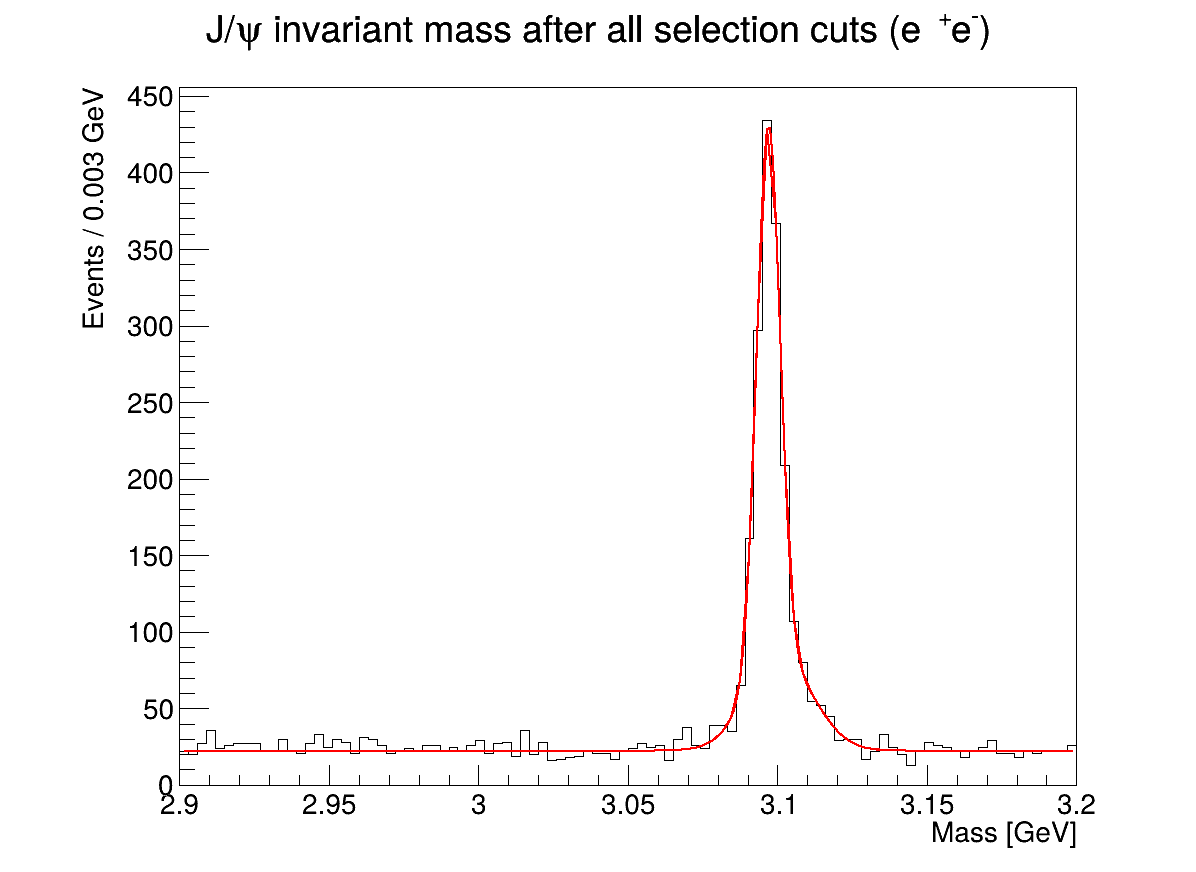
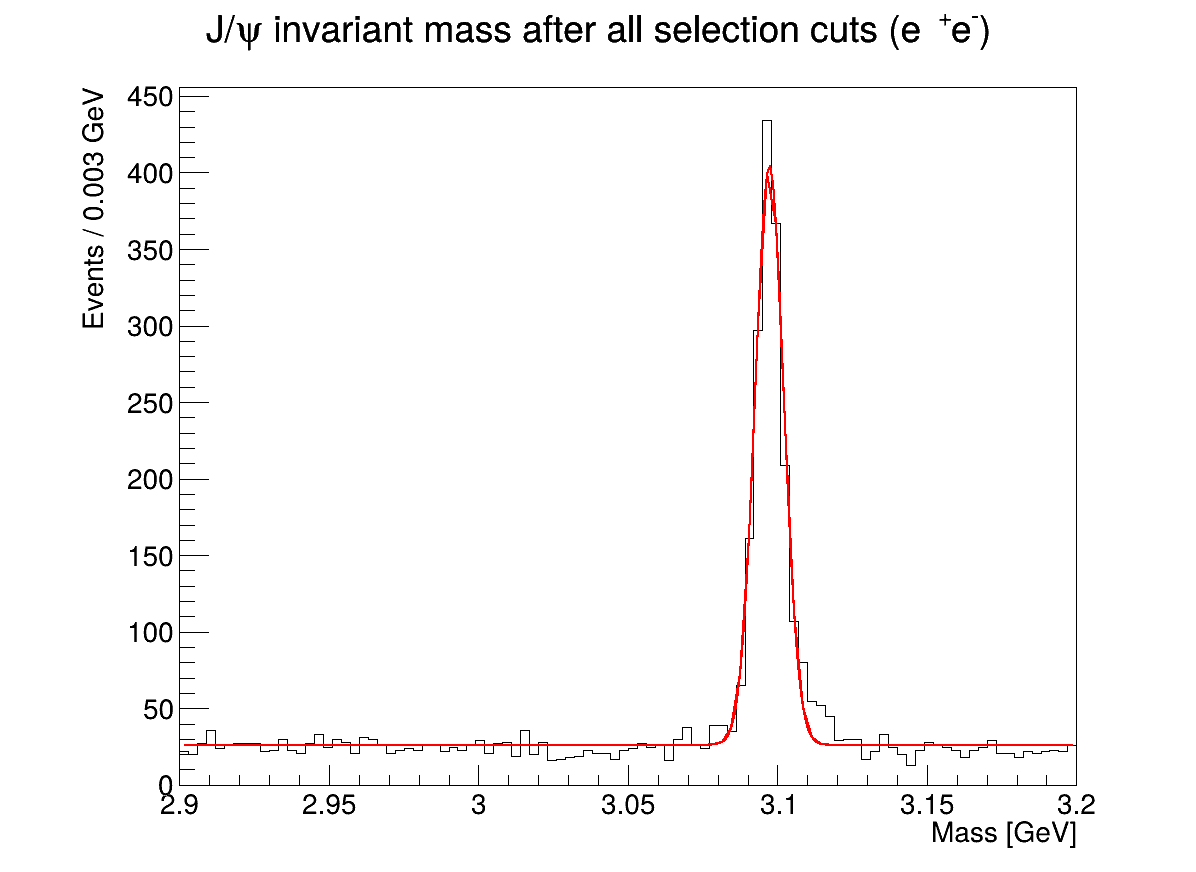
fixed 5.1 but not 5.2

diff --git a/part2_KinFit/ZcAnalysis.C b/part2_KinFit/ZcAnalysis.C
@@ -414,7 +414,7 @@ if (!passConversion) continue;
 if (electronEvent) N_conv_e++;
 
 // muons → unchanged from Bhabha stage
-//if (muonEvent) N_conv_mu++;
+if (muonEvent) N_conv_mu++;
 // AFTER CONVERSION CUT
 
 if(electronEvent)
@@ -1016,6 +1016,130 @@ leg_chi2->Draw();
 
 canvas_chi2->SaveAs(savePath + "Jpsi_mass_after_all_cuts.png");
 }
+
+{
+TCanvas* c = new TCanvas("c_jpsi_e_voigt","c_jpsi_e_voigt",1200,900);
+
+double binWidth = h_mJpsi_e_afterChi2->GetBinWidth(1);
+
+h_mJpsi_e_afterChi2->Draw();
+
+TF1* ffit_e_voigt = new TF1(
+    "ffit_e_voigt",
+    Form("[0]*TMath::Voigt(x-[1],[2],[3])*%f + [4]", binWidth),
+    3.05, 3.15
+);
+
+ffit_e_voigt->SetParameters(500, 3.097, 0.008, 0.000093, 10);
+ffit_e_voigt->FixParameter(3, 0.000093);
+
+h_mJpsi_e_afterChi2->Fit(ffit_e_voigt, "R");
+
+ffit_e_voigt->SetRange(2.9, 3.2);
+ffit_e_voigt->SetLineColor(kRed);
+ffit_e_voigt->Draw("same");
+
+c->SaveAs(savePath + "Jpsi_e_voigt.png");
+}
+{
+TCanvas* c = new TCanvas("c_jpsi_mu_voigt","c_jpsi_mu_voigt",1200,900);
+
+double binWidth = h_mJpsi_mu_afterChi2->GetBinWidth(1);
+
+h_mJpsi_mu_afterChi2->Draw();
+
+TF1* ffit_mu_voigt = new TF1(
+    "ffit_mu_voigt",
+    Form("[0]*TMath::Voigt(x-[1],[2],[3])*%f + [4]", binWidth),
+    3.05, 3.15
+);
+
+ffit_mu_voigt->SetParameters(500, 3.097, 0.006, 0.000093, 10);
+ffit_mu_voigt->FixParameter(3, 0.000093);
+
+h_mJpsi_mu_afterChi2->Fit(ffit_mu_voigt, "R");
+
+ffit_mu_voigt->SetRange(2.9, 3.2);
+ffit_mu_voigt->SetLineColor(kBlue);
+ffit_mu_voigt->Draw("same");
+
+c->SaveAs(savePath + "Jpsi_mu_voigt.png");
+}
+{
+TCanvas* c = new TCanvas("c_jpsi_recoil_voigt","c_jpsi_recoil_voigt",1200,900);
+
+double binWidth = h_mJpsi_recoil_afterChi2->GetBinWidth(1);
+
+h_mJpsi_recoil_afterChi2->Draw();
+
+TF1* ffit_recoil_voigt = new TF1(
+    "ffit_recoil_voigt",
+    Form("[0]*TMath::Voigt(x-[1],[2],[3])*%f + [4]", binWidth),
+    3.05, 3.15
+);
+
+ffit_recoil_voigt->SetParameters(500, 3.097, 0.010, 0.000093, 20);
+ffit_recoil_voigt->FixParameter(3, 0.000093);
+
+h_mJpsi_recoil_afterChi2->Fit(ffit_recoil_voigt, "R");
+
+ffit_recoil_voigt->SetRange(2.9, 3.2);
+ffit_recoil_voigt->SetLineColor(kMagenta);
+ffit_recoil_voigt->Draw("same");
+
+c->SaveAs(savePath + "Jpsi_recoil_voigt.png");
+}
+{
+TCanvas* c = new TCanvas("c_jpsi_combined_voigt","c_jpsi_combined_voigt",1200,900);
+
+double binWidth = h_mJpsi_combined->GetBinWidth(1);
+
+h_mJpsi_combined->SetLineColor(kBlack);
+h_mJpsi_combined->Draw();
+
+TF1* ffit_combined_voigt = new TF1(
+    "ffit_combined_voigt",
+    Form("[0]*TMath::Voigt(x-[1],[2],[3])*%f + [4]", binWidth),
+    3.05, 3.15
+);
+
+// slightly higher normalization since stats are larger
+ffit_combined_voigt->SetParameters(1000, 3.097, 0.007, 0.000093, 10);
+ffit_combined_voigt->FixParameter(3, 0.000093);
+
+h_mJpsi_combined->Fit(ffit_combined_voigt, "R");
+
+// extend drawing
+ffit_combined_voigt->SetRange(2.9, 3.2);
+ffit_combined_voigt->SetLineColor(kRed);
+ffit_combined_voigt->SetLineWidth(2);
+ffit_combined_voigt->Draw("same");
+
+c->SaveAs(savePath + "Jpsi_combined_voigt.png");
+}
+{
+int b1e = h_mJpsi_e_afterChi2->FindBin(3.05);
+int b2e = h_mJpsi_e_afterChi2->FindBin(3.15);
+double N_e = h_mJpsi_e_afterChi2->Integral(b1e, b2e);
+
+int b1m = h_mJpsi_mu_afterChi2->FindBin(3.05);
+int b2m = h_mJpsi_mu_afterChi2->FindBin(3.15);
+double N_mu = h_mJpsi_mu_afterChi2->Integral(b1m, b2m);
+
+int b1r = h_mJpsi_recoil_afterChi2->FindBin(3.05);
+int b2r = h_mJpsi_recoil_afterChi2->FindBin(3.15);
+double N_recoil = h_mJpsi_recoil_afterChi2->Integral(b1r, b2r);
+
+int b1c = h_mJpsi_combined->FindBin(3.05);
+int b2c = h_mJpsi_combined->FindBin(3.15);
+double N_combined = h_mJpsi_combined->Integral(b1c, b2c);
+
+std::cout << "\n=== FINAL EVENT YIELDS ===" << std::endl;
+std::cout << "Electrons: " << N_e << std::endl;
+std::cout << "Muons: " << N_mu << std::endl;
+std::cout << "Recoil: " << N_recoil << std::endl;
+std::cout << "Combined: " << N_combined << std::endl;
+}
 // problem 5.1
 {
 TCanvas* c = new TCanvas("c_jpsi_final","c_jpsi_final",1200,900);
@@ -1032,30 +1156,38 @@ h_mJpsi_combined->SetLineColor(kBlack);
 h_mJpsi_combined->Draw();
 
 // ===== FIT FUNCTION =====
-TF1* ffit = new TF1(
-"ffit",
-"[0]*exp(-(x-[1])*(x-[1])/(2*[2]*[2])) + \
- [3]*exp(-(x-[4])*(x-[4])/(2*[5]*[5])) + [6]",
-3.05, 3.15   // IMPORTANT: restricted range
+// ===== VOIGT FIT FUNCTION =====
+TF1* ffit_voigt = new TF1(
+    "ffit_voigt",
+    Form("[0]*TMath::Voigt(x-[1],[2],[3])*%f + [4]", binWidth),
+    3.05, 3.15
 );
 
-// initial params (CRUCIAL)
-ffit->SetParameters(
-800, 3.097, 0.008,   // narrow
-300, 3.097, 0.02,    // broad
-5                    // background
+// Initial parameters
+ffit_voigt->SetParameters(
+    1000,      // normalization (adjust if needed)
+    3.097,     // mean (J/psi mass)
+    0.008,     // sigma (~8 MeV resolution)
+    0.000093,  // gamma (J/psi natural width)
+    5          // background
 );
 
-// fit
-h_mJpsi_combined->Fit(ffit,"R");
+// FIX gamma (very important)
+ffit_voigt->FixParameter(3, 0.000093);
 
+// Fit
+h_mJpsi_combined->Fit(ffit_voigt, "R");
 
-ffit->SetRange(2.9, 3.2);
-ffit->Draw("same");
+ffit_voigt->SetRange(2.9, 3.2);
+
+// Draw
+ffit_voigt->SetLineColor(kRed);
+ffit_voigt->SetLineWidth(2);
+ffit_voigt->Draw("same");
 
 // ===== EXTRACT RESULTS =====
-double mass  = ffit->GetParameter(1);
-double sigma = ffit->GetParameter(2);
+double mass  = ffit_voigt->GetParameter(1);
+double sigma = ffit_voigt->GetParameter(2);
 
 std::cout << "\n=== FINAL J/psi FIT ===" << std::endl;
 std::cout << "Mass = " << mass << std::endl;
@@ -1064,65 +1196,18 @@ std::cout << "Width (sigma) = " << sigma << std::endl;
 // save
 c->SaveAs(savePath + "Jpsi_mass_final_combined_fit.png");
 }
-// problem 5.2
-// ================= SIGNAL EXTRACTION: ELECTRONS =================
-double N_Jpsi_e = 0;
-double N_Jpsi_mu = 0;
+// ================= SIGNAL EXTRACTION FROM HISTOGRAM =================
 
-{
-TCanvas* c = new TCanvas("c_jpsi_e_fit","c_jpsi_e_fit",1200,900);
+int b1e = h_mJpsi_e_afterChi2->FindBin(3.05);
+int b2e = h_mJpsi_e_afterChi2->FindBin(3.15);
+double N_Jpsi_e = h_mJpsi_e_afterChi2->Integral(b1e, b2e);
 
-h_mJpsi_e_afterChi2->Draw();
-
-TF1* ffit_e = new TF1(
-"ffit_e",
-"[0]*exp(-(x-[1])*(x-[1])/(2*[2]*[2])) + [3]",
-3.05,3.15
-);
-
-ffit_e->SetParameters(
-500,     // amplitude
-3.097,   // mean
-0.005,   // sigma
-10       // background
-);
-ffit_e->SetParLimits(2, 0.001, 0.02);
-
-h_mJpsi_e_afterChi2->Fit(ffit_e,"R");
-
-// extract yield
-N_Jpsi_e = ffit_e->Integral(3.05,3.15);
+int b1m = h_mJpsi_mu_afterChi2->FindBin(3.05);
+int b2m = h_mJpsi_mu_afterChi2->FindBin(3.15);
+double N_Jpsi_mu = h_mJpsi_mu_afterChi2->Integral(b1m, b2m);
 
 std::cout << "N_Jpsi_e = " << N_Jpsi_e << std::endl;
-}
-// ================= SIGNAL EXTRACTION: MUONS =================
-
-{
-TCanvas* c = new TCanvas("c_jpsi_mu_fit","c_jpsi_mu_fit",1200,900);
-
-h_mJpsi_mu_afterChi2->Draw();
-
-TF1* ffit_mu = new TF1(
-"ffit_mu",
-"[0]*exp(-(x-[1])*(x-[1])/(2*[2]*[2])) + [3]",
-3.05,3.15
-);
-
-ffit_mu->SetParameters(
-500,
-3.097,
-0.005,
-10
-);
-ffit_mu->SetParLimits(2, 0.001, 0.02);
-h_mJpsi_mu_afterChi2->Fit(ffit_mu,"R");
-
-// extract yield
-N_Jpsi_mu = ffit_mu->Integral(3.05,3.15);
-
 std::cout << "N_Jpsi_mu = " << N_Jpsi_mu << std::endl;
-}
-
 // ================= CROSS SECTION =================
 
 double L = 828.4; // pb^-1
